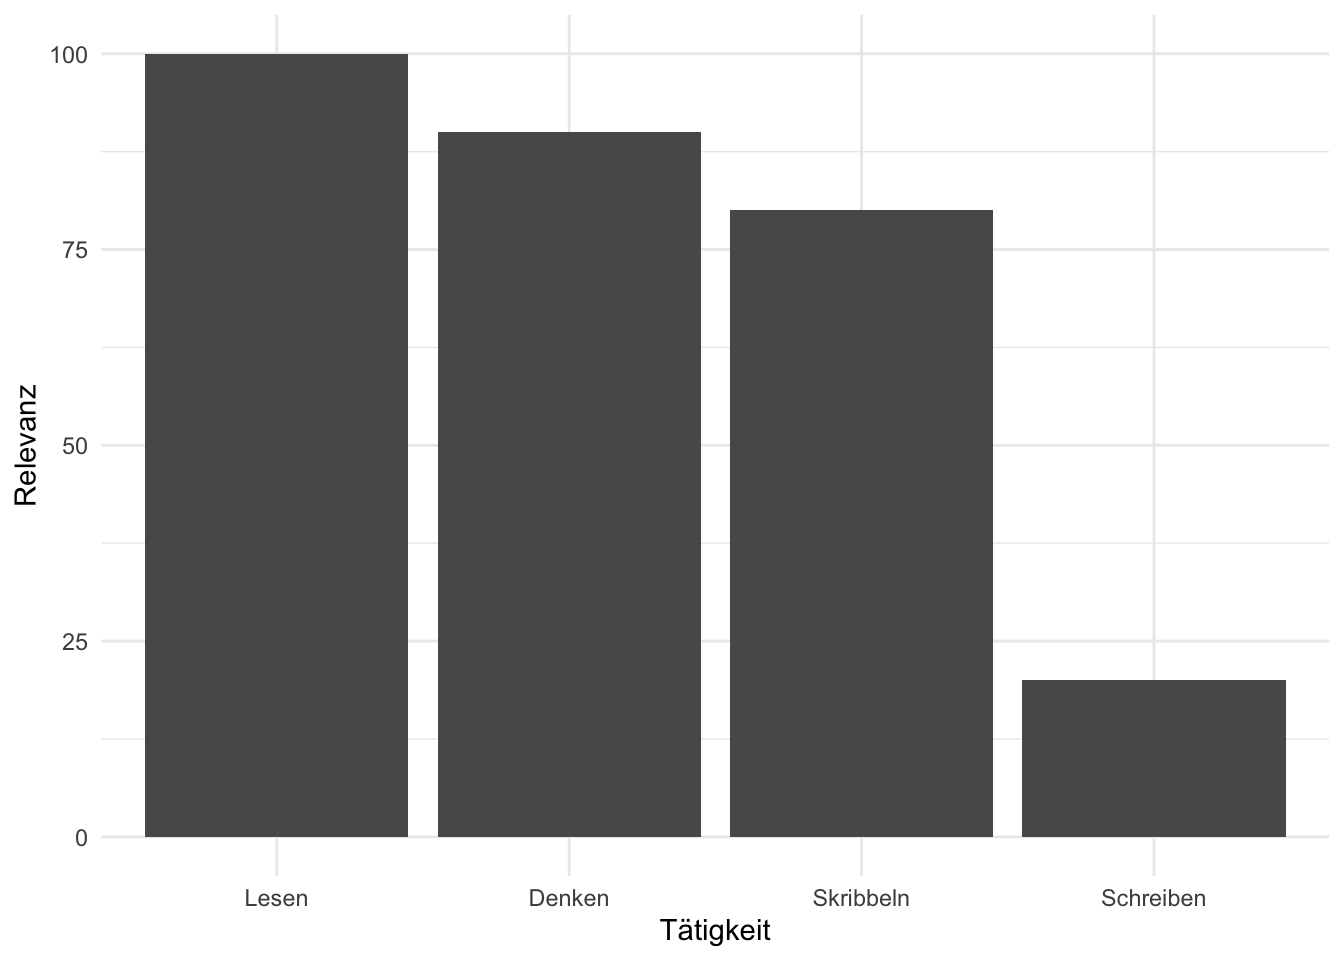
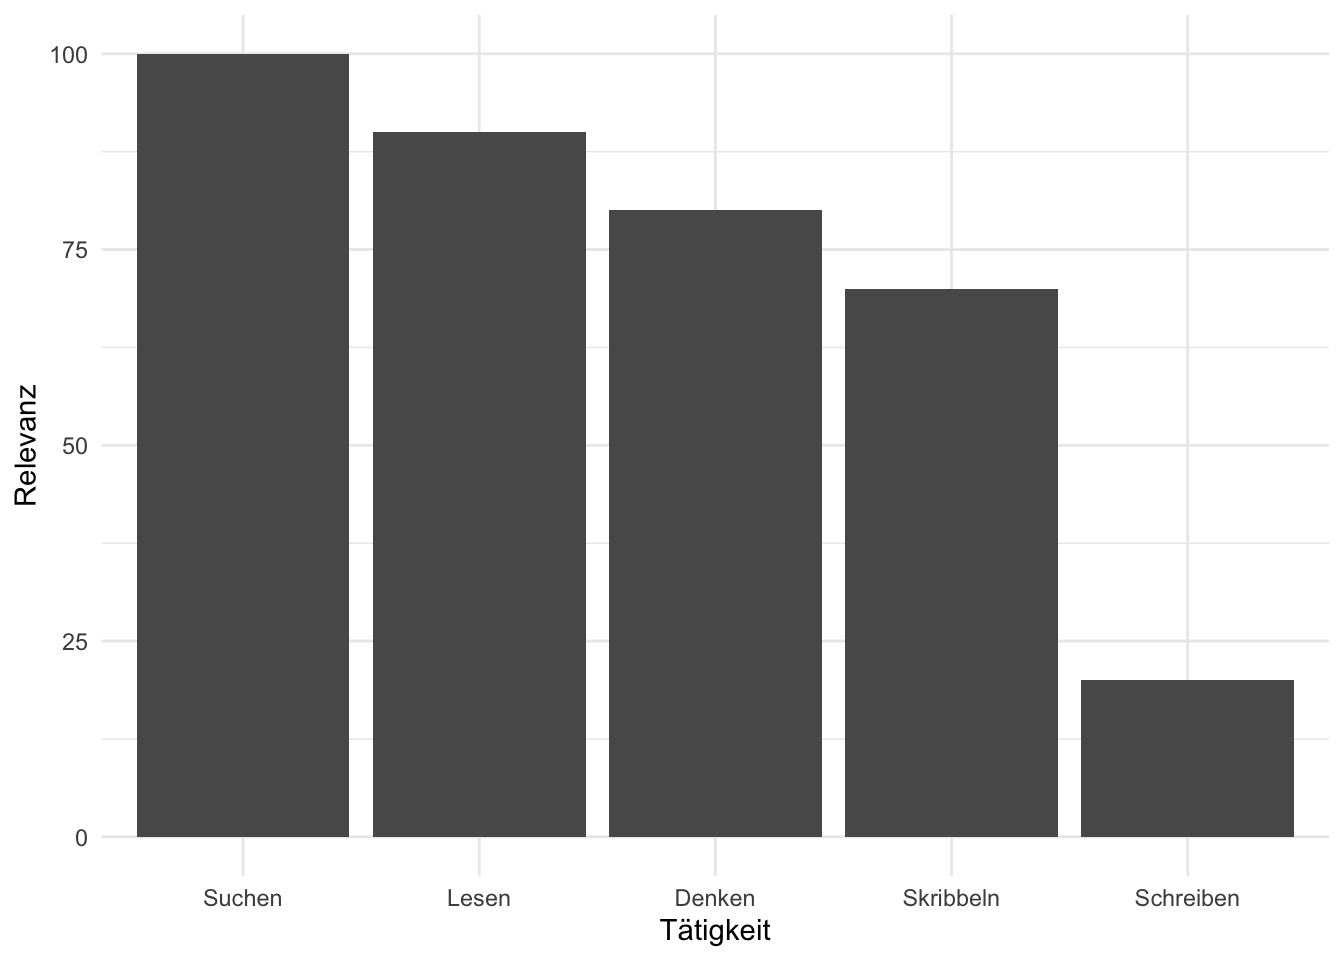
Obsidian

diff --git a/_book/020-themawahl.html b/_book/020-themawahl.html
@@ -321,11 +321,14 @@ window.Quarto = {
   </ul>
 </li>
   <li>
-<a href="#literaturrecherche" id="toc-literaturrecherche" class="nav-link" data-scroll-target="#literaturrecherche"><span class="header-section-number">3.3</span> Literaturrecherche</a>
+<a href="#wissenslandkarte-aufbauen" id="toc-wissenslandkarte-aufbauen" class="nav-link" data-scroll-target="#wissenslandkarte-aufbauen"><span class="header-section-number">3.3</span> Wissenslandkarte aufbauen</a>
   <ul class="collapse">
 <li><a href="#ablauf" id="toc-ablauf" class="nav-link" data-scroll-target="#ablauf"><span class="header-section-number">3.3.1</span> Ablauf</a></li>
-  <li><a href="#werkzeuge" id="toc-werkzeuge" class="nav-link" data-scroll-target="#werkzeuge"><span class="header-section-number">3.3.2</span> Werkzeuge</a></li>
-  <li><a href="#volltext-zugriff" id="toc-volltext-zugriff" class="nav-link" data-scroll-target="#volltext-zugriff"><span class="header-section-number">3.3.3</span> Volltext-Zugriff</a></li>
+  <li><a href="#ablauf-1" id="toc-ablauf-1" class="nav-link" data-scroll-target="#ablauf-1"><span class="header-section-number">3.3.2</span> Ablauf</a></li>
+  <li><a href="#datenbanken-f%C3%BCr-die-literaturrecherche" id="toc-datenbanken-für-die-literaturrecherche" class="nav-link" data-scroll-target="#datenbanken-f%C3%BCr-die-literaturrecherche"><span class="header-section-number">3.3.3</span> Datenbanken für die Literaturrecherche</a></li>
+  <li><a href="#volltext-zugriff" id="toc-volltext-zugriff" class="nav-link" data-scroll-target="#volltext-zugriff"><span class="header-section-number">3.3.4</span> Volltext-Zugriff</a></li>
+  <li><a href="#texte-zusammenfassen" id="toc-texte-zusammenfassen" class="nav-link" data-scroll-target="#texte-zusammenfassen"><span class="header-section-number">3.3.5</span> Texte zusammenfassen</a></li>
+  <li><a href="#wissen-verbinden" id="toc-wissen-verbinden" class="nav-link" data-scroll-target="#wissen-verbinden"><span class="header-section-number">3.3.6</span> Wissen verbinden</a></li>
   </ul>
 </li>
   <li>
@@ -432,9 +435,9 @@ Abbildung&nbsp;3.2: Von <em>Keine Ahnung</em> bis zu <em>Ich hab meine Forschung
 </div>
 </section><section id="forschungsfrage" class="level3" data-number="3.2.2"><h3 data-number="3.2.2" class="anchored" data-anchor-id="forschungsfrage">
 <span class="header-section-number">3.2.2</span> Forschungsfrage</h3>
-<p>Beachten Sie, dass ein “Thema” keinesfalls ausreichend ist, um eine wissenschaftliche Studie durchzuführen und zu dokumentieren. Ein “Thema” als solches ist viel zu unpräzise. Was Sie brauchenk ist eine präzise Forschungsfrage.</p>
+<p>Beachten Sie, dass ein “Thema” keinesfalls ausreichend ist, um eine wissenschaftliche Studie durchzuführen und zu dokumentieren. Ein “Thema” als solches ist viel zu unpräzise. Was Sie brauchen ist eine präzise Forschungsfrage.</p>
 <div id="def-forschungsfrage" class="theorem definition">
-<p><span class="theorem-title"><strong>Definition 3.1 (Forschungsfrage)</strong></span> Eine Forschungsfrage definiert die Frage (das Problem), die Sie in Ihrer Arbeit versuchen zu beantworten.<span class="math inline">\(\square\)</span></p>
+<p><span class="theorem-title"><strong>Definition 3.1 (Forschungsfrage)</strong></span> Eine Forschungsfrage ist die Frage (das Problem), die Sie in Ihrer Arbeit versuchen zu beantworten.<span class="math inline">\(\square\)</span></p>
 </div>
 <p>Eine Forschungsfrage ist häufig so aufgebaut, s. <a href="#fig-fofra" class="quarto-xref">Abbildung&nbsp;<span>3.3</span></a>: “Führt X zu Y”? Synonym könnte man auch fragen: “Hat X einen (kausalen) Einfluss (synonym: Effekt) auf Y?”</p>
 <div class="cell" data-layout-align="center">
@@ -453,7 +456,8 @@ Abbildung&nbsp;3.3: Prototyp einer Forschungsfrage
 </div>
 </div>
 </div>
-<p>Beachten Sie, dass eine Forschungsfrage nicht so aussehen muss; sie kann auch anders aussehen.</p>
+<p>Beachten Sie, dass eine Forschungsfrage nicht so aussehen muss. Aber häufig sind Forschungsfragen in dieser Struktur aufgebaut.</p>
+<p>Die genaue Forschungsfrage muss man nicht zu Beginn seiner wissenschaftlichen Arbeit kennen. Das kann man auch gar nicht. Vielmehr schält sich die Forschungsfrage im Zuge Ihrer Beschäftigung mit dem Thema heraus.</p>
 </section><section id="sec-taxo" class="level3" data-number="3.2.3"><h3 data-number="3.2.3" class="anchored" data-anchor-id="sec-taxo">
 <span class="header-section-number">3.2.3</span> Taxonomie von Forschungsfragen</h3>
 <p>Man kann Forschungsfragen in drei Arten gliedern, s. <a href="#fig-ziele" class="quarto-xref">Abbildung&nbsp;<span>3.4</span></a>.</p>
@@ -557,19 +561,19 @@ Tipp
 Abbildung&nbsp;3.6: Die Verständnis-Spirale. Sie sind gerade am blauen Punkt. Dran bleiben!
 </figcaption></figure>
 </div>
-</section></section><section id="literaturrecherche" class="level2" data-number="3.3"><h2 data-number="3.3" class="anchored" data-anchor-id="literaturrecherche">
-<span class="header-section-number">3.3</span> Literaturrecherche</h2>
+</section></section><section id="wissenslandkarte-aufbauen" class="level2" data-number="3.3"><h2 data-number="3.3" class="anchored" data-anchor-id="wissenslandkarte-aufbauen">
+<span class="header-section-number">3.3</span> Wissenslandkarte aufbauen</h2>
 <section id="ablauf" class="level3" data-number="3.3.1"><h3 data-number="3.3.1" class="anchored" data-anchor-id="ablauf">
 <span class="header-section-number">3.3.1</span> Ablauf</h3>
-<p>Sogenannte “Abläufe” wie die Wahl des Themas einer Forschungsarbeit, die Literaturrecherche oder das Schreiben sind in Wahrheit gar keine Abläufe. Es sind eher Kreise, da man die gleichen Tätigkeiten öfters wiederholt. Optimistischer ausgedrückt, sind es weder Abläufe noch Kreise, sondern Spiralen, s. <a href="#fig-spirale" class="quarto-xref">Abbildung&nbsp;<span>3.6</span></a>, da sich die Tätigkeiten zwar wiederholen, aber auf höherem oder verfeinertem Niveau.</p>
-<p><a href="#fig-litsearch" class="quarto-xref">Abbildung&nbsp;<span>3.7</span></a> stellt die einzelnen Schritte der Literaturrechere im Überblick dar.</p>
+<p>Sogenannte “Abläufe” wie die Wahl des Themas einer Forschungsarbeit, die Literaturrecherche oder das Schreiben sind in Wahrheit gar keine Abläufe. Es sind eher Kreise, da man die gleichen Tätigkeiten öfters wiederholt. Optimistischer ausgedrückt, sind es weder Abläufe noch Kreise, sondern Spiralen, s . <a href="#fig-spirale" class="quarto-xref">Abbildung&nbsp;<span>3.6</span></a>, da sich die Tätigkeiten zwar wiederholen, aber auf höherem oder verfeinertem Niveau.</p>
+<p><a href="#fig-litsearch" class="quarto-xref">Abbildung&nbsp;<span>3.7</span></a> stellt die einzelnen Schritte des Wissensaufbau im Überblick dar.</p>
 <div class="cell" data-layout-align="center">
 <div class="cell-output-display">
 <div id="fig-litsearch" class="quarto-float quarto-figure quarto-figure-center anchored">
 <figure class="quarto-float quarto-float-fig figure"><div aria-describedby="fig-litsearch-caption-0ceaefa1-69ba-4598-a22c-09a6ac19f8ca">
 <div>
 <pre class="mermaid mermaid-js" data-label="fig-litsearch">flowchart LR
-Suchen--&gt;Screenen--&gt;Sammeln--&gt;Lesen--&gt;Extrahieren
+Suchen--&gt;Screenen--&gt;Sammeln--&gt;Lesen--&gt;Zusammenfassen--&gt;Suchen
 </pre>
 </div>
 </div>
@@ -580,11 +584,11 @@ Abbildung&nbsp;3.7: Der Ablauf der Literaturrecherche
 </div>
 </div>
 <div id="def-litsearch" class="theorem definition">
-<p><span class="theorem-title"><strong>Definition 3.2 (Literaturrecherche)</strong></span> Die Literaturrecherche ist ein Ablauf, also eine zusammenhänge Folge mehrere Tätigkeitsschitte, mit dem Ziel, ein Literaturwerk (kurz: Werk) oder mehrere für die Forschungsfrage geeignete Werke zu finden. <span class="math inline">\(\square\)</span></p>
+<p><span class="theorem-title"><strong>Definition 3.2 (Literaturrecherche)</strong></span> Die Literaturrecherche ist ein Suchprozess mit dem Ziel, ein Literaturwerk (kurz: Werk) oder mehrere für die Forschungsfrage geeignete Werke zu finden. <span class="math inline">\(\square\)</span></p>
 </div>
 <ol type="1">
 <li>
-<p><em>Suchen</em> ist das Ausfindigmachen geeigneter Literatur. Dazu sucht man meist in einschlägigen wissenschaftlichen Literatur-Datenbanken wie z. B. Google Scholar. Beim Suchen von muss man unterscheiden zwischen dem Finden von</p>
+<p><em>Suchen</em> (Literaturrecherce) ist das Ausfindigmachen geeigneter Literatur. Dazu sucht man meist in einschlägigen wissenschaftlichen Literatur-Datenbanken wie z. B. Google Scholar. Beim Suchen von muss man unterscheiden zwischen dem Finden von</p>
 <ol type="a">
 <li>🖋 <em>Zitierinformationen</em> wie Autor, Titel, Datum der Veröffentlichung oder ID-Nummer (wie DOI oder ISBN)</li>
 <li>📌 <em>(Always-)Open-Access-Elemente</em> wie Titel, Abstract und Literaturverzeichnis</li>
@@ -594,10 +598,10 @@ Abbildung&nbsp;3.7: Der Ablauf der Literaturrecherche
 <li><p>Im nächsten Schritt, <em>Screenen</em>, sind zumeist die Open-Access-Elemente am wichtigsten, damit man einschätzen kann, ob das Werk geeignet ist. Der Volltext ist an dieser Stelle nicht (unbedingt) nötig.</p></li>
 <li><p>Geeignete Werke <em>sammelt</em> man in einer Liste, z. B. mit dem Literaturprogramm Zotero. Dabei werden pro Werk die Zitierinformationen festgehalten.</p></li>
 <li><p>Jetzt folgt das <em>Lesen</em><a href="#fn1" class="footnote-ref" id="fnref1" role="doc-noteref"><sup>1</sup></a> eines geeigneten Werks.</p></li>
-<li><p>Zentrale Inhalte <em>extrahiert</em> man aus dem Werk und hält sie an geeigneter Stelle fest, z. B. als Tag oder Notiz in Zotero.</p></li>
+<li><p>Zentrale Inhalte <em>fasst</em> man aus dem Werk <em>zusammen</em> und hält sie an geeigneter Stelle fest, z. B. als Tag oder Notiz in Zotero oder im <a href="https://zettelkasten.de/overview/">Zettelkasten</a>.</p></li>
 </ol>
 <div id="def-werk" class="theorem definition">
-<p><span class="theorem-title"><strong>Definition 3.3 (Was ist “Werk”?)</strong></span> Unter einem wissenschaftlichen Werk versteht man meist</p>
+<p><span class="theorem-title"><strong>Definition 3.3 (Was ist ein “Werk”?)</strong></span> Unter einem wissenschaftlichen Werk versteht man meist</p>
 <ul>
 <li>einen Aufsatz</li>
 <li>es kann aber auch manchmal ein Buch oder eine andere Art von Werk sein</li>
@@ -607,42 +611,40 @@ Abbildung&nbsp;3.7: Der Ablauf der Literaturrecherche
 </li>
 </ul>
 </div>
-</section><section id="werkzeuge" class="level3" data-number="3.3.2"><h3 data-number="3.3.2" class="anchored" data-anchor-id="werkzeuge">
-<span class="header-section-number">3.3.2</span> Werkzeuge</h3>
-<p>Geeignete (IT-)Werkzeuge für diese Schritte sind in <a href="#fig-litsearch-tools" class="quarto-xref">Abbildung&nbsp;<span>3.8</span></a> dargestellt.</p>
+</section><section id="ablauf-1" class="level3" data-number="3.3.2"><h3 data-number="3.3.2" class="anchored" data-anchor-id="ablauf-1">
+<span class="header-section-number">3.3.2</span> Ablauf</h3>
+<p>Der Ablauf einer Literaturrecherche ist in <a href="#fig-litsearch-ablauf" class="quarto-xref">Abbildung&nbsp;<span>3.8</span></a> dargestellt.</p>
 <div class="cell" data-layout-align="center">
 <div class="cell-output-display">
-<div id="fig-litsearch-tools" class="quarto-float quarto-figure quarto-figure-center anchored">
-<figure class="quarto-float quarto-float-fig figure"><div aria-describedby="fig-litsearch-tools-caption-0ceaefa1-69ba-4598-a22c-09a6ac19f8ca">
+<div id="fig-litsearch-ablauf" class="quarto-float quarto-figure quarto-figure-center anchored">
+<figure class="quarto-float quarto-float-fig figure"><div aria-describedby="fig-litsearch-ablauf-caption-0ceaefa1-69ba-4598-a22c-09a6ac19f8ca">
 <div>
-<pre class="mermaid mermaid-js" data-label="fig-litsearch-tools">flowchart LR
-  subgraph S[Suchen]
-    Suchen --- |Datenbank| litdb[Literatur-Liste]
-  end
-  subgraph Sc[Screenen]
-    Screenen --- |AI| lt1[Überblick]
-  end
-  subgraph Sa[Sammeln]
-    Sammeln --- |Datenbank| z1[Literatur-Liste]
-  end
-  subgraph Le[Lesen]
-    Lesen --- |Lesetechnik| lt2[Verständnis]
-  end
-  subgraph E[Extrahieren]
-    Extrahieren --- Notizen
-  end
-    
-S--&gt;Sc--&gt;Sa--&gt;Le--&gt;E
+<pre class="mermaid mermaid-js" data-label="fig-litsearch-ablauf">flowchart LR
+  Suchen --&gt; Screenen --&gt; Sammeln --&gt; Z[Zusammenfassen] --&gt; Verbinden 
+
 </pre>
 </div>
 </div>
-<figcaption class="quarto-float-caption-bottom quarto-float-caption quarto-float-fig" id="fig-litsearch-tools-caption-0ceaefa1-69ba-4598-a22c-09a6ac19f8ca">
+<figcaption class="quarto-float-caption-bottom quarto-float-caption quarto-float-fig" id="fig-litsearch-ablauf-caption-0ceaefa1-69ba-4598-a22c-09a6ac19f8ca">
 Abbildung&nbsp;3.8: Der Ablauf der Literaturrecherche
 </figcaption></figure>
 </div>
 </div>
 </div>
-<p>Die Anzahl der Suchmaschinen bzw. Datenbanken bzw. (AI-)Suchdienste wächst und schwankt, so dass es schwierig ist, einen umfassenden Überblick zu geben. <a href="#tbl-suchdienste" class="quarto-xref">Tabelle&nbsp;<span>3.1</span></a> versucht, einen Überblick über einige empfehlenswerte Dienste zu geben. Zu beachten ist, dass die Zahl der Zitationen angebeben sind, also der Metadaten von Forschungsartikeln. Die Suchmaschinen haben Zugriff auf den Volltext einer Teil der Zitationen. Das bedeutet aber nicht, dass man über die Suchmaschinen Volltextzugriff bekommen kann. Bei “geschützten” (paywalled) Artikeln ist diese nur mit Bezahlzugang möglich. Mit etwas Glück hat Ihre Bib Zugang zum betreffenden Artikel.</p>
+<ol type="1">
+<li>
+<em>Suchen</em>: Sie finden Literaturquellen, die für Ihre Forschungsfrage relevant sein könnnten.</li>
+<li>
+<em>Screenen</em>: Sie verschaffen sich einen Überblick über Passung von Forschungsfrage sowie methodischer Angemessenheit der identifizierten Literaturquellen.</li>
+<li>
+<em>Sammeln</em>: Sie halten die Quellenangaben geeigneter Werke in einer Liste fest (in Ihrem Literaturverwaltungsprogramm).</li>
+<li>
+<em>Zusammmenfassen</em>: Sie schreiben einen Überblick zum Inhalt der relevanten Literaturquellen. Sie schreiben also das Wesentliche der Quelle zusammen.</li>
+<li>
+<em>Verbinden</em>: Sie setzen die zentralen Inhalte der Literaturquellen so miteinander in Bezug, dass Sie eine “Landkarte” von Wissen (inkl. der Quellenangaben) bekommen.</li>
+</ol></section><section id="datenbanken-für-die-literaturrecherche" class="level3" data-number="3.3.3"><h3 data-number="3.3.3" class="anchored" data-anchor-id="datenbanken-für-die-literaturrecherche">
+<span class="header-section-number">3.3.3</span> Datenbanken für die Literaturrecherche</h3>
+<p>Die Anzahl der Suchmaschinen bzw. Datenbanken bzw. (AI-)Suchdienste wächst und schwankt, so dass es schwierig ist, einen umfassenden Überblick zu geben. <a href="#tbl-suchdienste" class="quarto-xref">Tabelle&nbsp;<span>3.1</span></a> versucht, einen Überblick über einige empfehlenswerte Dienste zu geben. Zu beachten ist, dass die Zahl der Zitationen angebeben sind, also der Metadaten von Forschungsartikeln. Die Suchmaschinen haben Zugriff auf den Volltext einer Teil der Zitationen. Das bedeutet aber nicht, dass man über die Suchmaschinen Volltextzugriff bekommen kann. Bei “geschützten” (sog. paywalled) Artikeln ist diese nur mit Bezahlzugang möglich. Mit etwas Glück hat Ihre Bib Zugang zum betreffenden Artikel.</p>
 <div id="tbl-suchdienste" class="quarto-float quarto-figure quarto-figure-center anchored">
 <figure class="quarto-float quarto-float-tbl figure"><figcaption class="quarto-float-caption-top quarto-float-caption quarto-float-tbl" id="tbl-suchdienste-caption-0ceaefa1-69ba-4598-a22c-09a6ac19f8ca">
 Tabelle&nbsp;3.1: (AI-)Suchdienste für wissenschaftliche Werke
@@ -730,8 +732,8 @@ Tabelle&nbsp;3.1: (AI-)Suchdienste für wissenschaftliche Werke
 </blockquote>
 <p>Suchen Sie geeignete Literatur (nur Fachartikel) für die Forschungsfrage zu obiger Forschungsfrage: Geben Sie eine Liste von 5 hoch relevanten Papers an (am besten nach APA zitiert). Sie müssen <em>keine</em> Volltexte bereitstellen. Sie müssen die Quellen auch nicht lesen. Arbeiten Sie in Kleingruppen. Nutzen Sie einen (oder mehrere) KI-Dienst; geben Sie an, welche(n) KI-Dienst(e) Sie verwendet haben. Schreiben Sie Ihre Ergebnisse in <a href="https://docs.google.com/document/d/1ewdihvc-LUgwGCXtWwChNd-ISGbHRgKeNSnB3f4SSv0/edit?usp=sharing">dieses Dateigerüst</a>. Nutzen Sie einen eigenen Tab für Ihre Gruppe. Geben Sie an, welche (KI-)Dienste Sie verwendet haben. <span class="math inline">\(\square\)</span></p>
 </div>
-</section><section id="volltext-zugriff" class="level3" data-number="3.3.3"><h3 data-number="3.3.3" class="anchored" data-anchor-id="volltext-zugriff">
-<span class="header-section-number">3.3.3</span> Volltext-Zugriff</h3>
+</section><section id="volltext-zugriff" class="level3" data-number="3.3.4"><h3 data-number="3.3.4" class="anchored" data-anchor-id="volltext-zugriff">
+<span class="header-section-number">3.3.4</span> Volltext-Zugriff</h3>
 <p>Um an Volltexte zu gelangen, gibt es verschiedene Wege:</p>
 <ul>
 <li>
@@ -744,7 +746,29 @@ Tabelle&nbsp;3.1: (AI-)Suchdienste für wissenschaftliche Werke
 <li>Verzichten Sie auf diesen Artikel und wählen Sie stattdessen einen <em>ähnlichen</em>, auf den Sie einfacher zugreifen können 🤷♂</li>
 <li>Verschiedene (KI-)Suchdienste zeigen an, ob ein Volltext verfügbar ist (z. B. Semantic Scholar).</li>
 <li>Volltextdienste wie “S c i h u b” werden nicht als legale Quellen angesehen.</li>
-</ul></section></section><section id="lesen" class="level2" data-number="3.4"><h2 data-number="3.4" class="anchored" data-anchor-id="lesen">
+</ul></section><section id="texte-zusammenfassen" class="level3" data-number="3.3.5"><h3 data-number="3.3.5" class="anchored" data-anchor-id="texte-zusammenfassen">
+<span class="header-section-number">3.3.5</span> Texte zusammenfassen</h3>
+<p>Ist es wirklich noch zeitgemäß, einen Text zusammenzufassen (“exzerpieren”)? Schließlich ist das viel Aufwand. Und die KI fasst mir den Text ja null-komma-nix zusammen. Wozu also der Aufwand?</p>
+<p>Das Problem ist, wenn Sie das Wesentliche eines Textes nicht aufschreiben, dann können Sie sich kaum an diesen Inhalt erinnern, wenn Sie es brauchen. Nur wenn Sie über schriftliche Notizen verfügen, können Sie auch nach längerer Zeit auf das Wissen zugreifen. Es führt also kein Weg an schriftlichen Notizen vorbei.</p>
+<p>Außerdem schärft das Schreiben Ihre Gedanken. Manche Leute gehen soweit zusagen, dass das Denken erst beim Schreiben passiert. Durch das Aufschreiben - immer in eigenen Worten - sind Sie gezwungen, den Text zu verstehen.</p>
+<p>Wenn Sie einen Text zusammenfassen, vertrauen viele Leute auf Unterstreichen bzw. Anstreichen der relevanten Textstellen. Besser ist es aber, sich zu einer wichtigen Textstelle eine Notiz zu machen. Diese Notiz kann auf einem Schmierzettel sein oder in einer App oder in einem Notizbuch. Wichtig ist aber, dass Sie in eigenen Worten zusammenfassen. Vergessen Sie auch die Quellenangabe nicht, da Sie ja zu jedem Gedanken die Quelle angeben müssen.</p>
+</section><section id="wissen-verbinden" class="level3" data-number="3.3.6"><h3 data-number="3.3.6" class="anchored" data-anchor-id="wissen-verbinden">
+<span class="header-section-number">3.3.6</span> Wissen verbinden</h3>
+<p>Aber Notizen alleine nutzen nicht viel. Viele Notizen für sich genommen nutzen nicht viel. Viele Notizen, ohne Verbindung, sind nur ein Haufen.</p>
+<p>Um die Zusammenhänge Ihrer Notizen zu sehen, brauchen Sie, ja: Zusammenhänge zwischen den Notizen.</p>
+<p>Sie müssen also Querverweise (Links) zwischen den Notizen schaffen. Hashtags den Notizen zuweisen ist ebenfalls nützlich.</p>
+<p>Solche Verbindungen erst lassen ein Wissens-Netzwerk oder eine Wissens-Landkarte entstehen. Und nur diese Wissenslandkarte ist nützlich. Der Zettelhaufen ist es nicht.</p>
+<p>Es gibt verschiedene Apps, die helfen, eine Wissenslandkarte zu erstellen, indem Wissensverbindungen erstellt werden. Eine davon heißt <a href="https://obsidian.md/">Obsidian</a>, s. <span class="quarto-unresolved-ref">?fig-obsidian1</span>. Obsidian hat ein paar Vorzüge:</p>
+<ul>
+<li>kostenfrei</li>
+<li>speichert Ihre Notizen offline als Textdateien</li>
+<li>nutzerfreundlich</li>
+</ul>
+<div class="quarto-figure quarto-figure-center">
+<figure class="figure"><p><img src="img/obsidian1.png" class="img-fluid figure-img"></p>
+<figcaption>Die Oberfläche von Obsidian</figcaption></figure>
+</div>
+</section></section><section id="lesen" class="level2" data-number="3.4"><h2 data-number="3.4" class="anchored" data-anchor-id="lesen">
 <span class="header-section-number">3.4</span> Lesen</h2>
 <section id="lesen-ohne-ki" class="level3" data-number="3.4.1"><h3 data-number="3.4.1" class="anchored" data-anchor-id="lesen-ohne-ki">
 <span class="header-section-number">3.4.1</span> Lesen ohne KI?</h3>
@@ -774,7 +798,7 @@ Wichtig
 <div>
 <pre class="mermaid mermaid-js" data-label="fig-nicht-schreiben">flowchart LR
   subgraph V[nicht schreiben, denken]
-    lesen --&gt; skribbeln --&gt; lesen
+    lesen --&gt; skribbeln --&gt; denken --&gt; lesen
   end  
   KP[Kein Plan]  --&gt; V
  
